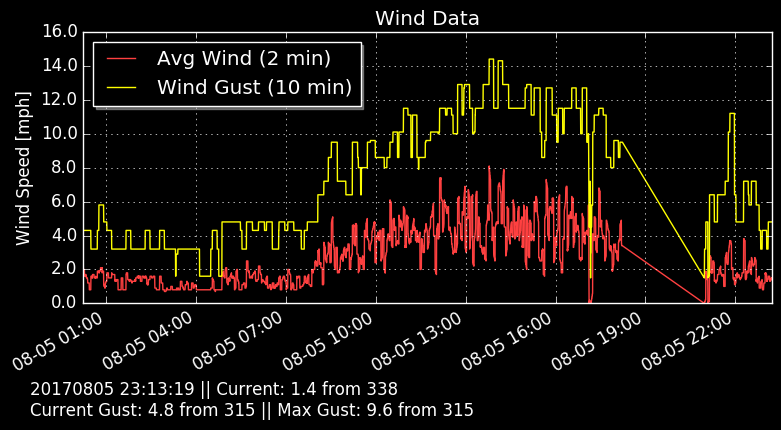
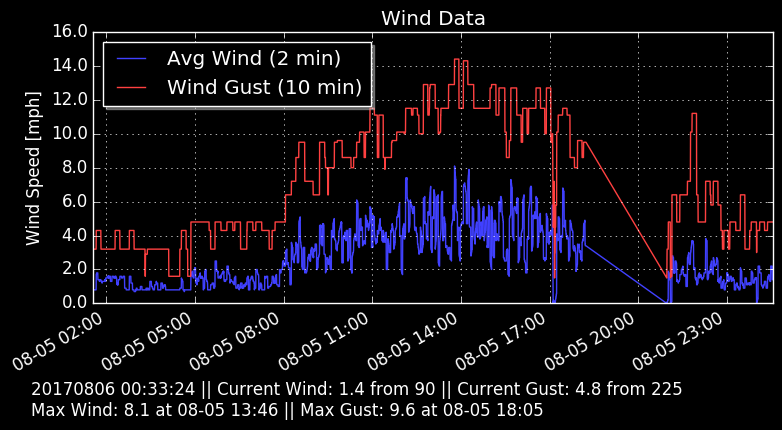
Tweaked plot colors and stats

Changed region(s): [[0.0, 0.0605, 1.0, 0.9674], [0.4609, 0.0, 0.6453, 0.0605], [0.0922, 0.7558, 0.1229, 0.786]]

diff --git a/plotWeather.py b/plotWeather.py
@@ -141,6 +141,12 @@ class WeatherPlot():
 
         return data #, timestamps, index_min, index_max
 
+    def minmax(self, list):
+	index_min = min(xrange(len(list)), key=list.__getitem__)
+        index_max = max(xrange(len(list)), key=list.__getitem__)
+
+	return index_min, index_max
+
     def convertPressure(self, pressureData):
         '''
         Convert the pressure data from pascal to inHg or atm
@@ -167,10 +173,9 @@ class WeatherPlot():
         fig,ax=plt.subplots(1)
         fig.set_size_inches(8,4)
         ax.set_ylabel('Pressure [ATM]')
-        ax.set_xlabel('Time [hours]')
         ax.set_title('Barometric Pressure')
 
-        ax.plot(timestamp, pressure, 'c-')
+        ax.plot(timestamp, pressure, 'm-')
 	ax.plot(timestamp, stpList, 'y-', label='Std. Pressure=%.4f'%stp)
         majorFormatter = mpl.dates.DateFormatter('%m-%d %H:%M')
         ax.xaxis.set_major_formatter(majorFormatter)
@@ -179,6 +184,16 @@ class WeatherPlot():
         ax.autoscale_view()
         #ax.set_axis_bgcolor('black')
         plt.gcf().autofmt_xdate()       #Make dates look pretty in plot
+
+	ind_min_prs, ind_max_prs = self.minmax(pressure)
+        min_prs, max_prs = float(pressure[ind_min_prs]), float(pressure[ind_max_prs])
+        min_prs_time, max_prs_time = timestamp[ind_min_prs], timestamp[ind_max_prs]
+
+        minTimeStr = min_prs_time.strftime('%m-%d %H:%M')
+        maxTimeStr = max_prs_time.strftime('%m-%d %H:%M')
+        minmaxText = timestamp[0].strftime('%Y%m%d %H:%M:%S')+" || Current: %.5f \nLow: %.5f at %s || High: %.5f at %s" % (float(pressure[0]), min_prs, minTimeStr, max_prs, maxTimeStr)
+	fig.text(0.05, -0.06, minmaxText)
+
         plt.grid(True)
         fig.tight_layout()
         #plt.show()
@@ -192,7 +207,6 @@ class WeatherPlot():
         fig,ax=plt.subplots(1)
         fig.set_size_inches(8,4)
         ax.set_ylabel('Humidity [%]')
-        ax.set_xlabel('Time')
         ax.set_title('Humidity')
 
         ax.plot(timestamp, humidity, 'm-')
@@ -202,6 +216,16 @@ class WeatherPlot():
         ax.autoscale_view()
         #ax.set_axis_bgcolor('black')
         plt.gcf().autofmt_xdate()       #Make dates look pretty in plot
+
+	ind_min_hum, ind_max_hum = self.minmax(humidity)
+	min_hum, max_hum = float(humidity[ind_min_hum]), float(humidity[ind_max_hum])
+	min_hum_time, max_hum_time = timestamp[ind_min_hum], timestamp[ind_max_hum]
+
+	minTimeStr = min_hum_time.strftime('%m-%d %H:%M')
+        maxTimeStr = max_hum_time.strftime('%m-%d %H:%M')
+        minmaxText = timestamp[0].strftime('%Y%m%d %H:%M:%S')+" || Current: %.1f \nLow: %.1f at %s || High: %.1f at %s" % (float(humidity[0]), min_hum, minTimeStr, max_hum, maxTimeStr)
+        fig.text(0.05, -0.06, minmaxText)
+
         plt.grid(True)
         fig.tight_layout()
         #plt.show()
@@ -218,11 +242,10 @@ class WeatherPlot():
         fig,ax=plt.subplots(1)
         fig.set_size_inches(8,4)
         ax.set_ylabel('Wind Speed [mph]')
-        ax.set_xlabel('Time [hours]')
         ax.set_title('Wind Data')
 
-        ax.plot(timestamps, windavg2m, 'c-', label='Avg Wind (2 min)')
-        ax.plot(timestamps, windgust10m, 'b-', label='Wind Gust (10 min)')
+        ax.plot(timestamps, windavg2m, 'y-', label='Avg Wind (2 min)')
+        ax.plot(timestamps, windgust10m, 'c-', label='Wind Gust (10 min)')
 
 	'''
 	ax.annotate('Max Gust = %.1f [MPH]\n%s' % (windgust10m[index_gust_max], gusttimestamps[index_gust_max].strftime('%H:%M')),
@@ -234,6 +257,24 @@ class WeatherPlot():
 	arrowprops=dict(facecolor='white', shrink=0.1, fill=True))
         '''
 
+	index_maxGust = self.minmax(windgust10m)[1]
+	maxGust = float(windgust10m[index_maxGust])
+	maxGustTime = timestamps[index_maxGust].strftime('%m-%d %H:%M')
+	maxGustDir = float(dataDict['windgustdir'][index_maxGust])
+
+	index_maxWind = self.minmax(windavg2m)[1]
+        maxWind = float(windavg2m[index_maxWind])
+        maxWindTime = timestamps[index_maxWind].strftime('%m-%d %H:%M')
+        maxWindDir = float(dataDict['winddir'][index_maxWind])
+
+        currentWind = float(windavg2m[0])
+	currentGust = float(windgust10m[0])
+	currentDir = float(dataDict['winddir'][0])
+	currentGustDir = float(dataDict['windgustdir'][0])
+
+	minmaxText = timestamps[0].strftime('%Y%m%d %H:%M:%S')+" || Current Wind: %.1f from %.0f || Current Gust: %.1f from %.0f \nMax Wind: %.1f at %s || Max Gust: %.1f at %s" % (currentWind, currentDir, currentGust, currentGustDir, maxWind, maxWindTime, maxGust, maxGustTime)
+        fig.text(0.05, -0.06, minmaxText)
+
 	majorFormatter = mpl.dates.DateFormatter('%m-%d %H:%M')
         ax.xaxis.set_major_formatter(majorFormatter)
         ax.yaxis.set_major_formatter(FormatStrFormatter('%.1f'))
@@ -244,19 +285,24 @@ class WeatherPlot():
         plt.grid(True)
         fig.tight_layout()
         plt.savefig(os.getcwd()+'/wind.png', bbox_inches='tight')
-	return
 	plt.close('all')
+	plt.clf()
+	return
 
     def plotTemp(self, dataDict):
         tempfs, timestamps, dewpoints = dataDict['tempf'], dataDict['timestamp'], dataDict['dewpoint']
 
+	index_temp_min, index_temp_max = self.minmax(tempfs)
+	minTemp, maxTemp = float(tempfs[index_temp_min]), float(tempfs[index_temp_max])
+	minTime, maxTime = timestamps[index_temp_min], timestamps[index_temp_max]
+
         fig,ax=plt.subplots(1)
         fig.set_size_inches(8,4)
         ax.set_ylabel('Temperature [F]')
-        ax.set_xlabel('Time [hours]')
+        #ax.set_xlabel('Time [hours]')
         ax.set_title('Temperature Data')
 
-        ax.plot(timestamps, dewpoints, 'm-', label='Dewpoint [F]')
+        ax.plot(timestamps, dewpoints, 'y-', label='Dewpoint [F]')
         ax.plot(timestamps, tempfs, 'c-', label='Temp [F]')
 
 	'''
@@ -277,6 +323,11 @@ class WeatherPlot():
         arrowprops=dict(facecolor='white', shrink=0.2, fill=True))
 	'''
 
+	minTimeStr = minTime.strftime('%m-%d %H:%M')
+	maxTimeStr = maxTime.strftime('%m-%d %H:%M')
+	currentTemp = float(tempfs[0])
+	minmaxText = timestamps[0].strftime('%Y%m%d %H:%M:%S')+" || Current Temp: %.1f || Current Dewpoint: %.1f \nLow: %.1f at %s || High: %.1f at %s" % (currentTemp, float(dewpoints[0]), minTemp, minTimeStr, maxTemp, maxTimeStr)
+	fig.text(0.05, -0.06, minmaxText)
         majorFormatter = mpl.dates.DateFormatter('%m-%d %H:%M')
         ax.xaxis.set_major_formatter(majorFormatter)
         ax.yaxis.set_major_formatter(FormatStrFormatter('%.1f'))
@@ -288,6 +339,7 @@ class WeatherPlot():
         fig.tight_layout()
         plt.savefig(os.getcwd()+'/tempf.png', bbox_inches='tight')
         plt.close('all')
+	plt.clf()
         return
 
     def upload(self, sensorname):

diff --git a/plotWeather_test.py b/plotWeather_test.py
@@ -175,7 +175,7 @@ class WeatherPlot():
         ax.set_ylabel('Pressure [ATM]')
         ax.set_title('Barometric Pressure')
 
-        ax.plot(timestamp, pressure, 'c-')
+        ax.plot(timestamp, pressure, 'm-')
 	ax.plot(timestamp, stpList, 'y-', label='Std. Pressure=%.4f'%stp)
         majorFormatter = mpl.dates.DateFormatter('%m-%d %H:%M')
         ax.xaxis.set_major_formatter(majorFormatter)
@@ -244,8 +244,8 @@ class WeatherPlot():
         ax.set_ylabel('Wind Speed [mph]')
         ax.set_title('Wind Data')
 
-        ax.plot(timestamps, windavg2m, 'c-', label='Avg Wind (2 min)')
-        ax.plot(timestamps, windgust10m, 'b-', label='Wind Gust (10 min)')
+        ax.plot(timestamps, windavg2m, 'y-', label='Avg Wind (2 min)')
+        ax.plot(timestamps, windgust10m, 'c-', label='Wind Gust (10 min)')
 
 	'''
 	ax.annotate('Max Gust = %.1f [MPH]\n%s' % (windgust10m[index_gust_max], gusttimestamps[index_gust_max].strftime('%H:%M')),
@@ -259,14 +259,20 @@ class WeatherPlot():
 
 	index_maxGust = self.minmax(windgust10m)[1]
 	maxGust = float(windgust10m[index_maxGust])
+	maxGustTime = timestamps[index_maxGust].strftime('%m-%d %H:%M')
 	maxGustDir = float(dataDict['windgustdir'][index_maxGust])
+
+	index_maxWind = self.minmax(windavg2m)[1]
+        maxWind = float(windavg2m[index_maxWind])
+        maxWindTime = timestamps[index_maxWind].strftime('%m-%d %H:%M')
+        maxWindDir = float(dataDict['winddir'][index_maxWind])
 
         currentWind = float(windavg2m[0])
 	currentGust = float(windgust10m[0])
 	currentDir = float(dataDict['winddir'][0])
 	currentGustDir = float(dataDict['windgustdir'][0])
 
-	minmaxText = timestamps[0].strftime('%Y%m%d %H:%M:%S')+" || Current: %.1f from %.0f \nCurrent Gust: %.1f from %.0f || Max Gust: %.1f from %.0f" % (currentWind, currentDir, currentGust, currentGustDir, maxGust, maxGustDir)
+	minmaxText = timestamps[0].strftime('%Y%m%d %H:%M:%S')+" || Current Wind: %.1f from %.0f || Current Gust: %.1f from %.0f \nMax Wind: %.1f at %s || Max Gust: %.1f at %s" % (currentWind, currentDir, currentGust, currentGustDir, maxWind, maxWindTime, maxGust, maxGustTime)
         fig.text(0.05, -0.06, minmaxText)
 
 	majorFormatter = mpl.dates.DateFormatter('%m-%d %H:%M')
@@ -296,7 +302,7 @@ class WeatherPlot():
         #ax.set_xlabel('Time [hours]')
         ax.set_title('Temperature Data')
 
-        ax.plot(timestamps, dewpoints, 'm-', label='Dewpoint [F]')
+        ax.plot(timestamps, dewpoints, 'y-', label='Dewpoint [F]')
         ax.plot(timestamps, tempfs, 'c-', label='Temp [F]')
 
 	'''
@@ -320,7 +326,7 @@ class WeatherPlot():
 	minTimeStr = minTime.strftime('%m-%d %H:%M')
 	maxTimeStr = maxTime.strftime('%m-%d %H:%M')
 	currentTemp = float(tempfs[0])
-	minmaxText = timestamps[0].strftime('%Y%m%d %H:%M:%S')+" || Current: %.1f \nLow: %.1f at %s || High: %.1f at %s" % (currentTemp, minTemp, minTimeStr, maxTemp, maxTimeStr)
+	minmaxText = timestamps[0].strftime('%Y%m%d %H:%M:%S')+" || Current Temp: %.1f || Current Dewpoint: %.1f \nLow: %.1f at %s || High: %.1f at %s" % (currentTemp, float(dewpoints[0]), minTemp, minTimeStr, maxTemp, maxTimeStr)
 	fig.text(0.05, -0.06, minmaxText)
         majorFormatter = mpl.dates.DateFormatter('%m-%d %H:%M')
         ax.xaxis.set_major_formatter(majorFormatter)
